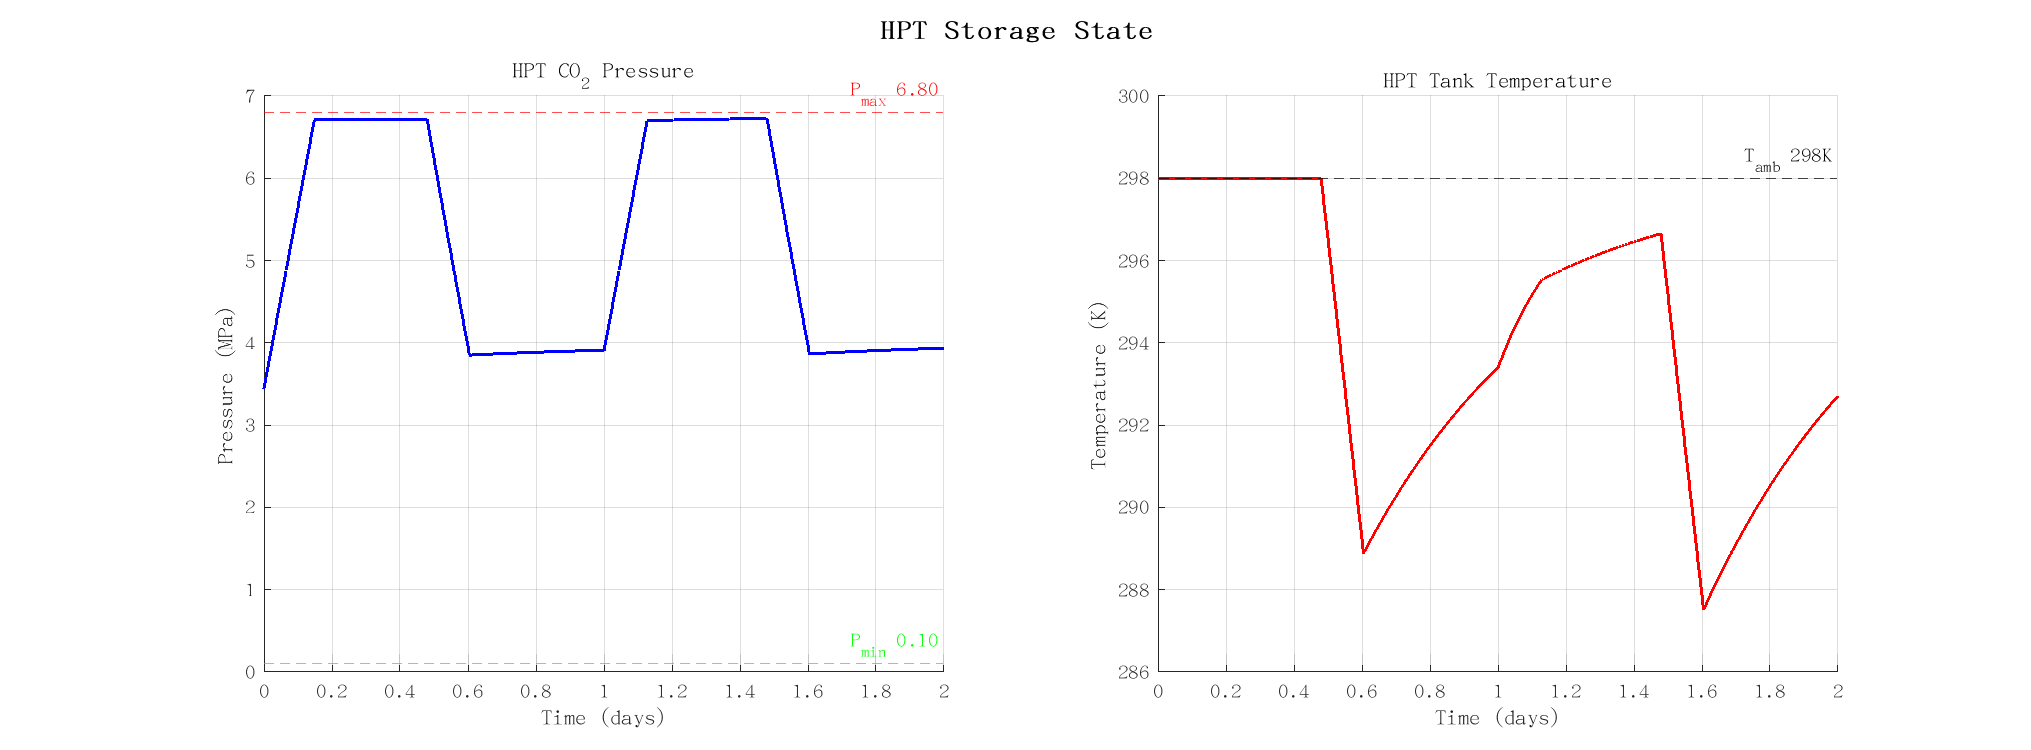
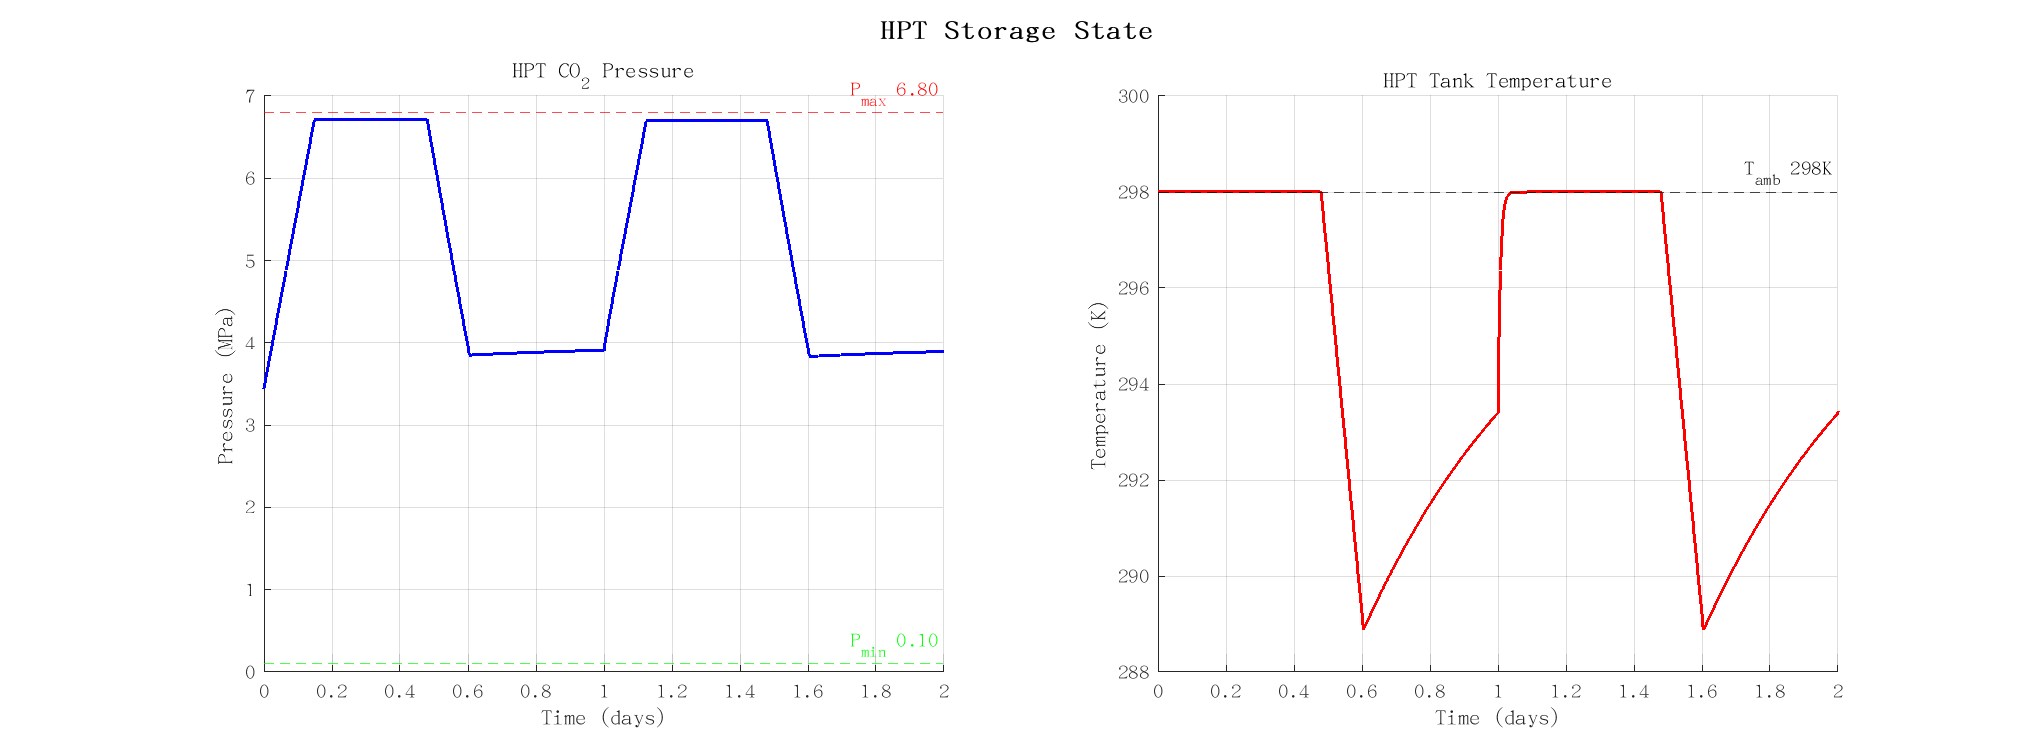
feat: extend ODE to 7 days, increase step to 600s

diff --git a/CCES_CHP_Simulink/src/ode/run_ode_simulation.m b/CCES_CHP_Simulink/src/ode/run_ode_simulation.m
@@ -22,10 +22,10 @@ T_tank_0 = 298;
 x0 = [m_HPT_0; Q_init; T_tank_0];
 
 %% 仿真
-dt = 60;  t_sim = 2 * 86400;  tspan = 0:dt:t_sim;
-fprintf('CCES-CHP ODE仿真 (2天, REFPROP+动态T): 充电7.5h, 放电3h\n');
+dt = 120;  t_sim = 7 * 86400;  tspan = 0:dt:t_sim;
+fprintf('CCES-CHP ODE仿真 (7天, REFPROP+动态T): 充电7.5h, 放电3h\n');
 
-opts = odeset('RelTol', 1e-4, 'MaxStep', 300);
+opts = odeset('RelTol', 1e-4, 'MaxStep', 600);
 [t, x] = ode45(@ode_dynamics, tspan, x0, opts);
 
 %% 后处理

diff --git a/CCES_CHP_Simulink/output/ode/FIGURES.md b/CCES_CHP_Simulink/output/ode/FIGURES.md
@@ -1,6 +1,6 @@
 # CCES-CHP ODE 仿真图表说明
 
-48 小时动态仿真，模型：3 状态 ODE（HPT 质量、HTV 蓄热、储罐温度），物性由 REFPROP 实时计算。
+7 天动态仿真，模型：3 状态 ODE（HPT 质量、HTV 蓄热、储罐温度），物性由 REFPROP 实时计算。
 
 ---
 
